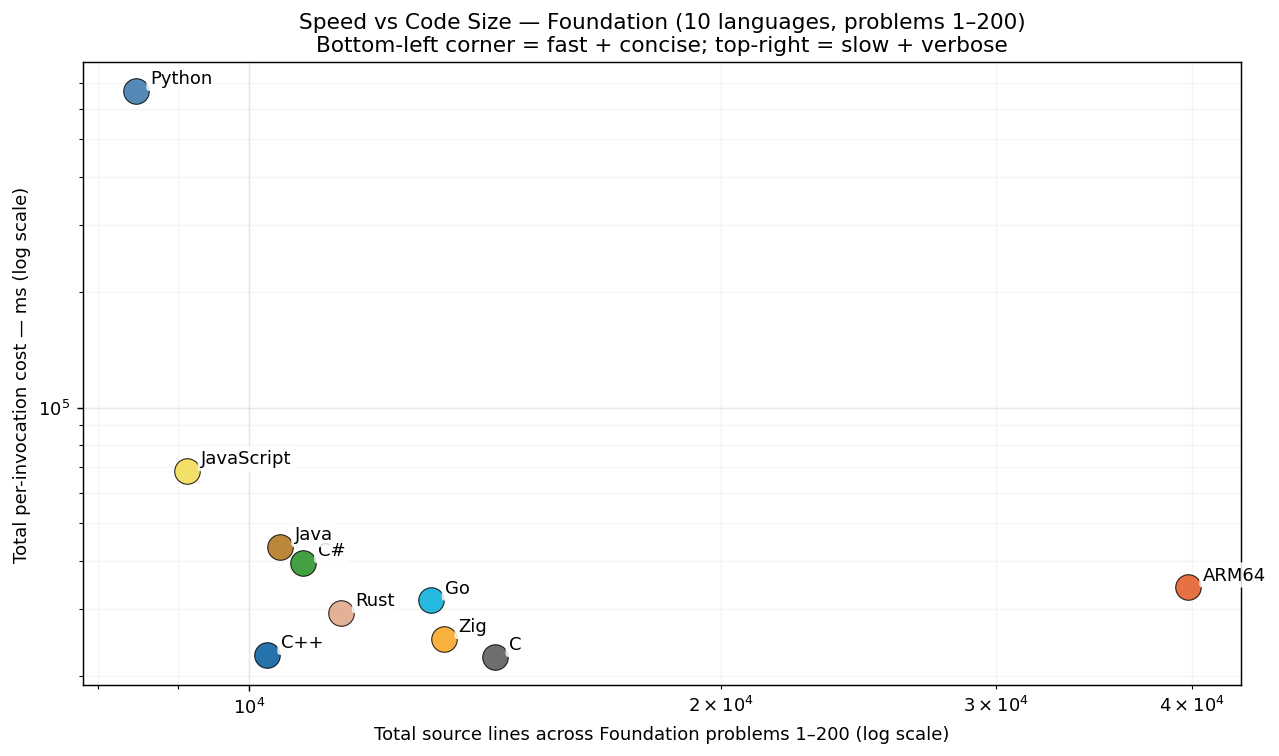
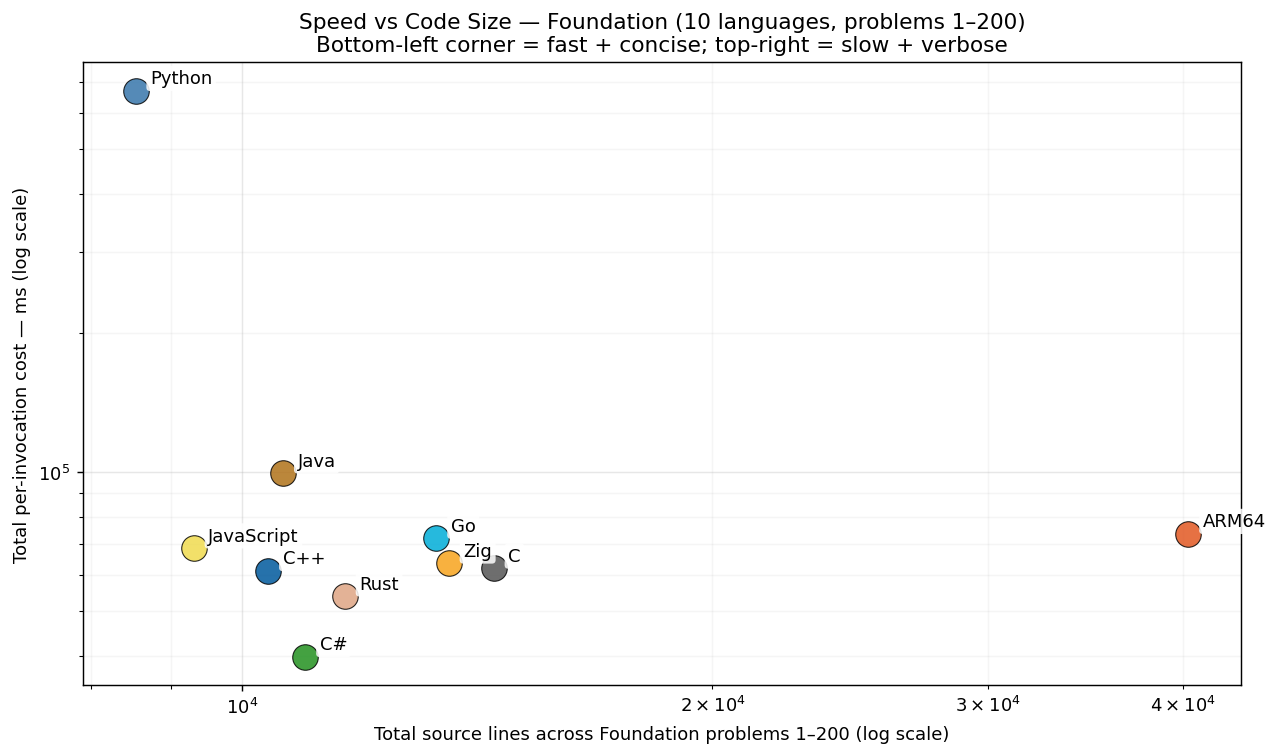
publish: python p170 bench'd at iters=10 (358ms — algorithm is 100x faster than Go's brute force, my earlier deferral was based on Go's cost model); 1-200 now 2000/2000 measured

diff --git a/RESULTS.md b/RESULTS.md
@@ -1,7 +1,7 @@
 # Project Euler — Cross-Language Benchmarks
 
-> **Scope: 2500 in-scope cells across 300 problems × tiered languages — 2443 measured (97.7% coverage).**
-> The cross-language ranking below is computed over the **199-problem common set** (problems in 1-200 where every language has a passing measurement) — the apples-to-apples Foundation comparison surface.  Per-tier rankings and coverage detail appear further below.
+> **Scope: 2500 in-scope cells across 300 problems × tiered languages — 2444 measured (97.8% coverage).**
+> The cross-language ranking below is computed over the **200-problem common set** (problems in 1-200 where every language has a passing measurement) — the apples-to-apples Foundation comparison surface.  Per-tier rankings and coverage detail appear further below.
 > Growing carefully — each new problem and language is audited for state-leak
 > safety, verified for answer correctness, and added only when it cleanly fits the
 > measurement methodology.  See [JOURNEY.md](JOURNEY.md) for the full story of how
@@ -12,29 +12,29 @@
 
 All 10 languages benchmarked across the first 200 problems — the apples-to-apples comparison surface that anchors the suite's headline rankings.
 
-### Per-Invocation Cost (Common Set, 199 of 200 problems)
+### Per-Invocation Cost (Common Set, 200 of 200 problems)
 
 We run each program 10 times in fresh OS processes (no warmup, no shared state).
 Each invocation pays full startup + algorithm cost — the cost a real CLI / cron /
 shell-loop user actually pays.  The median wall time across the 10 invocations is
-the headline per-problem number, and the table sums over the 199-problem
+the headline per-problem number, and the table sums over the 200-problem
 common set so partial-coverage languages aren't artificially "faster" than fully-
 covered ones.
 
 ![Per-Invocation Cost](charts/per_iter_total.png)
 
-| Rank | Language | Total (199-problem common set) | Lines of code | vs Fastest |
+| Rank | Language | Total (200-problem common set) | Lines of code | vs Fastest |
 |------|----------|--------------------:|--------------:|-----------:|
-| 1 | **C** | 22.47 s | 14,346 | 1.00× |
-| 2 | **C++** | 22.75 s | 10,256 | 1.01× |
-| 3 | **Zig** | 25.02 s | 13,310 | 1.11× |
-| 4 | **Rust** | 29.22 s | 11,443 | 1.30× |
-| 5 | **Go** | 31.49 s | 13,062 | 1.40× |
-| 6 | **ARM64** | 34.10 s | 39,793 | 1.52× |
-| 7 | **C#** | 39.45 s | 10,825 | 1.76× |
-| 8 | **Java** | 43.42 s | 10,468 | 1.93× |
-| 9 | **JavaScript** | 68.46 s | 9,123 | 3.05× |
-| 10 | **Python** | 669.59 s | 8,459 | 29.80× |
+| 1 | **C#** | 39.84 s | 10,974 | 1.00× |
+| 2 | **Rust** | 53.89 s | 11,633 | 1.35× |
+| 3 | **C++** | 61.16 s | 10,390 | 1.54× |
+| 4 | **C** | 61.92 s | 14,488 | 1.55× |
+| 5 | **Zig** | 63.51 s | 13,559 | 1.59× |
+| 6 | **JavaScript** | 68.47 s | 9,310 | 1.72× |
+| 7 | **Go** | 71.86 s | 13,313 | 1.80× |
+| 8 | **ARM64** | 73.60 s | 40,336 | 1.85× |
+| 9 | **Java** | 99.54 s | 10,621 | 2.50× |
+| 10 | **Python** | 669.95 s | 8,544 | 16.82× |
 
 ### Speed vs Code Size
 

diff --git a/per_problem/per_problem_101-200.md b/per_problem/per_problem_101-200.md
@@ -76,7 +76,7 @@ column per language in tier-1 display order (native → managed → interpreted)
 | **p167** | 129.05 ms | 122.85 ms | 127.29 ms | 126.88 ms | 138.54 ms | 130.05 ms | 139.25 ms | 161.03 ms | 236.92 ms | 7.37 s |
 | **p168** | 32.0 µs | 25.5 µs | 21.7 µs | 31.5 µs | 27.3 µs | 33.1 µs | 248.5 µs | 197.8 µs | 274.0 µs | 533.3 µs |
 | **p169** | 1.0 µs | 167 ns | 208 ns | 2.0 µs | 208 ns | 10.7 µs | 411.8 µs | 533.3 µs | 40.0 µs | 13.9 µs |
-| **p170** | 39.50 s | 39.45 s | 38.41 s* | 24.67 s* | 38.48 s | 40.38 s | 392.34 ms* | 56.12 s* | 7.70 ms* | — |
+| **p170** | 39.50 s | 39.45 s | 38.41 s* | 24.67 s* | 38.48 s | 40.38 s | 392.34 ms* | 56.12 s* | 7.70 ms* | 357.90 ms |
 | **p171** | 2.90 ms | 1.46 ms | 2.05 ms | 2.20 ms | 2.14 ms | 3.20 ms | 4.00 ms | 7.25 ms | 20.31 ms | 150.21 ms |
 | **p172** | 3.0 µs | 2.1 µs | 3.3 µs | 4.1 µs | 2.5 µs | 6.5 µs | 614.7 µs | 41.0 µs | 122.8 µs | 118.7 µs |
 | **p173** | 10.02 ms | 536.7 µs | 634.2 µs | 621.5 µs | 590.8 µs | 740.6 µs | 1.11 ms | 9.07 ms | 3.50 ms | 92.81 ms |
